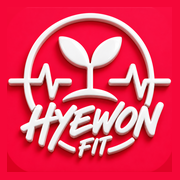
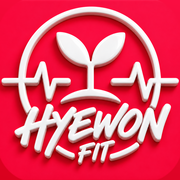
PWA 1.60.2 — 아이콘 로고를 더 크게(여백 제거)

diff --git a/index.html b/index.html
@@ -1,4 +1,5 @@
-<!-- 코드명: 혜원핏 PWA 학생앱 | index.html | @version 1.60.1 -->
+<!-- 코드명: 혜원핏 PWA 학생앱 | index.html | @version 1.60.2 -->
+<!--   [1.60.2] 아이콘의 로고를 더 크게 — 여백을 없애 로고가 칸을 꽉 채우게(any 100%, maskable 88%), 파랑은 3D 테두리가 남던 아래·왼쪽 띠를 지움. 앱 안 로고(테마 1·3)는 여백 없는 icon{n}-512.png 사용. -->
 <!--   [1.60.1] ★새 아이콘이 안 보이던 것 — 서비스워커가 «그림 캐시(grofit-static-1)» 의 옛 아이콘을 계속 내주고 있었다. STATIC 를 static-2 로 올리고, 아이콘 10장은 옛 캐시에서 옮기지 않고 새로 받게(FRESH). -->
 <!--   [1.60.0] 앱 아이콘을 3D 혜원핏 로고로 — 빨강(테마 1)·파랑(테마 3)의 icon1/icon3 세트(180·192·512·maskable 192·512) 교체. 앱 안 로고(로그인·홈)도 같은 이미지(mask-512)를 쓴다. 이미 설치한 앱은 아이콘이 바로 안 바뀔 수 있다(다시 설치/홈 화면 추가). -->
 <!--   [1.59.0] 감상문 1번 «4주간의 나» 안내에 «계획대로 못 한 날·실패한 경험도 써요 — 왜 못 했는지, 그때 생각, 다음에는 어떻게»를 추가(4주를 못 채운 학생도 쓰도록). 글자수 기준(150자)은 그대로. -->
@@ -2007,7 +2008,7 @@ body.apt::before{content:'🍎 애플 스타일 시범 · 3277';position:fixed;l
 <script>
 var API_BASE = 'https://script.google.com/macros/s/AKfycbzkiRulWoZvZs2q6NzDJM1I0aG43xnLjwuE-oY3PJ5R8kHbcSMRDfadG69kUIKzq-FN5A/exec';
 /* 학생앱(PWA) 버전·배포시각(KST) — 배포 때마다 갱신 */
-var PWA_VER = '1.60.1';
+var PWA_VER = '1.60.2';
 /* [1.34.0] 푸시 알림(FCM) — 파이어베이스 콘솔 «프로젝트 설정 → 일반 → 내 앱(웹)» 값. 비어 있으면 «🔔 알림 받기»가 «준비 중»으로 뜬다.
    sw.js 맨 위 FCM_CONFIG 에도 «똑같이» 채워야 한다(백그라운드 수신은 서비스워커가 처리). */
 var FCM_CONFIG = { apiKey:'AIzaSyC_InfCEKRIFqmFLus7npS4b-GejpDBJAE', authDomain:'heywonfit.firebaseapp.com', projectId:'heywonfit', storageBucket:'heywonfit.firebasestorage.app', messagingSenderId:'541314853089', appId:'1:541314853089:web:38220f47a5cb68ac696fa0' };
@@ -2027,9 +2028,9 @@ function paintAppVer(){
 
 /* 테마(색+로고) — 관리자 설정값(테마 1~6)에 따라 전환 */
 var THEMES={
-  1:{p:'#FD1843',d:'#D6113B',t:'#FFE1E8',logo:'icon1-mask-512.png',k:'#FF5C7A',kt:'rgba(255,92,122,.22)',ko:'#fff'},   // [1.38.0] k=다크 모드 강조색(어두운 배경에서 읽히게 밝힘)
+  1:{p:'#FD1843',d:'#D6113B',t:'#FFE1E8',logo:'icon1-512.png',k:'#FF5C7A',kt:'rgba(255,92,122,.22)',ko:'#fff'},   // [1.38.0] k=다크 모드 강조색(어두운 배경에서 읽히게 밝힘)
   2:{p:'#FD1843',d:'#D6113B',t:'#FFE1E8',logo:'icon2-mask-512.png',k:'#FF5C7A',kt:'rgba(255,92,122,.22)',ko:'#fff'},
-  3:{p:'#27187E',d:'#1B1258',t:'#E6E3F5',logo:'icon3-mask-512.png',k:'#9C8CFF',kt:'rgba(156,140,255,.24)',ko:'#fff'},
+  3:{p:'#27187E',d:'#1B1258',t:'#E6E3F5',logo:'icon3-512.png',k:'#9C8CFF',kt:'rgba(156,140,255,.24)',ko:'#fff'},
   4:{p:'#27187E',d:'#1B1258',t:'#E6E3F5',logo:'icon4-mask-512.png',k:'#9C8CFF',kt:'rgba(156,140,255,.24)',ko:'#fff'},
   5:{p:'#5FAE00',d:'#4A8A00',t:'#EDFAD6',logo:'icon5-mask-512.png',k:'#86CF1A',kt:'rgba(134,207,26,.22)',ko:'#0d1c00'},
   6:{p:'#5FAE00',d:'#4A8A00',t:'#EDFAD6',logo:'icon6-mask-512.png',k:'#86CF1A',kt:'rgba(134,207,26,.22)',ko:'#0d1c00'}

diff --git a/sw.js b/sw.js
@@ -6,8 +6,8 @@
    처음 이 판으로 바뀔 때도 옛 캐시에 있던 그림을 옮겨 담으므로 다시 받지 않는다.
    ★그림 파일을 «같은 이름»으로 바꿔 넣었으면 STATIC 숫자를 올릴 것 — 그래야 새 그림을 받는다.
    ★그림 한 장을 못 받아도 설치는 계속된다(예전 addAll 은 한 장만 없어도 설치가 통째로 실패했다). */
-var CACHE = 'grofit-v1.60.1';
-var STATIC = 'grofit-static-2';   // [1.60.1] 테마 1·3 아이콘을 같은 이름으로 바꿨다 → STATIC 올림(옛 그림을 새 캐시로 옮겨 담지 않고 새로 받는다)
+var CACHE = 'grofit-v1.60.2';
+var STATIC = 'grofit-static-3';   // [1.60.2] 아이콘 그림을 다시 바꿈 → 숫자 올림   // [1.60.1] 테마 1·3 아이콘을 같은 이름으로 바꿨다 → STATIC 올림(옛 그림을 새 캐시로 옮겨 담지 않고 새로 받는다)
 /* 같은 이름으로 그림을 바꾼 파일 — 옛 캐시에서 옮기지 않고 항상 새로 받는다(이 STATIC 안에 없을 때만) */
 var FRESH = ['icon1-180.png','icon1-192.png','icon1-512.png','icon1-mask-192.png','icon1-mask-512.png','icon3-180.png','icon3-192.png','icon3-512.png','icon3-mask-192.png','icon3-mask-512.png'];
 
